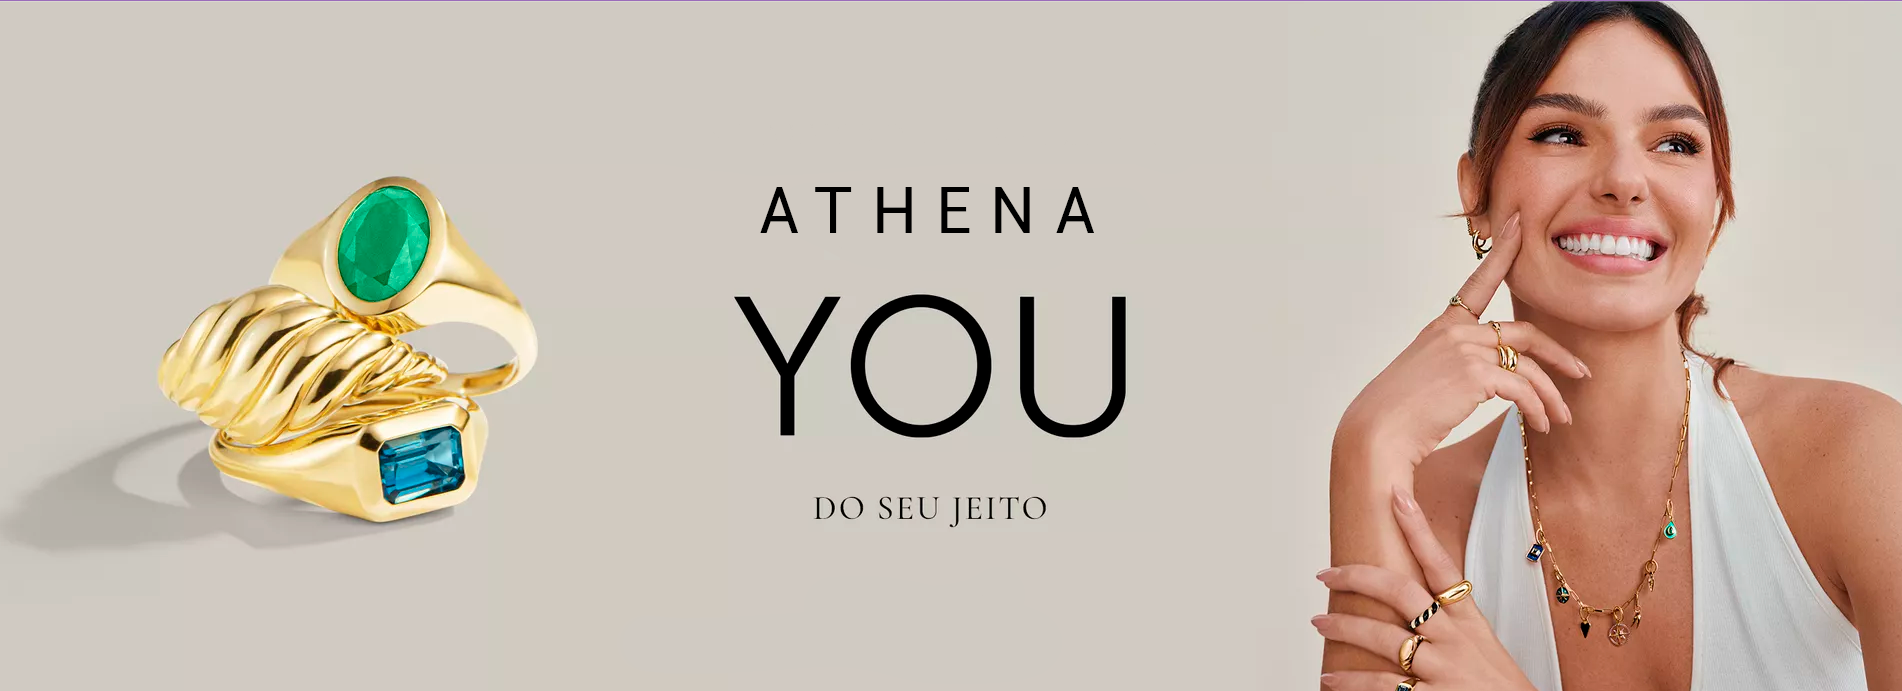
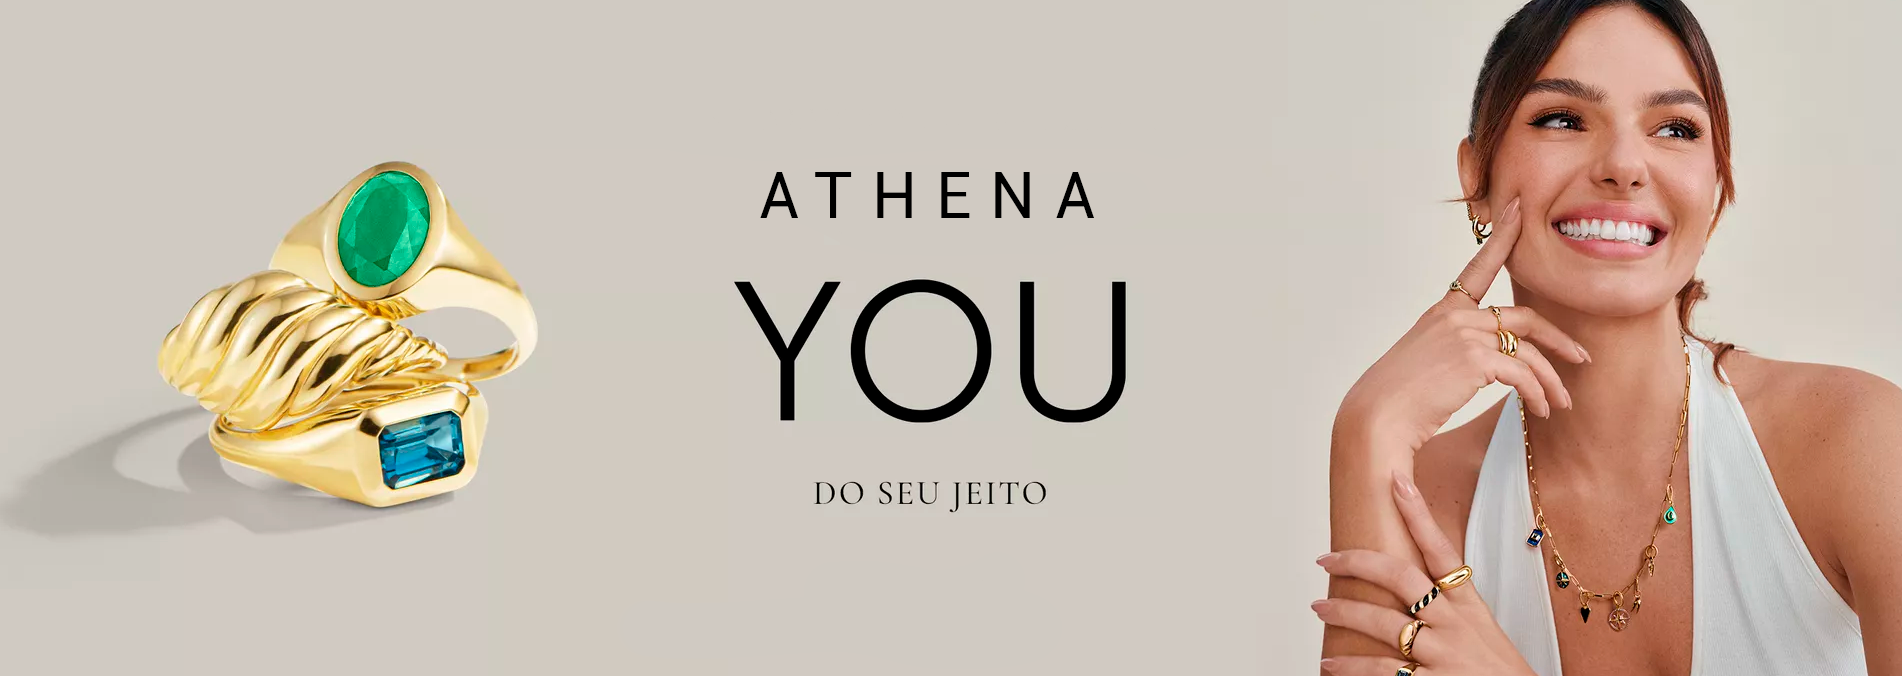
Update footer

diff --git a/src/css/style.css b/src/css/style.css
@@ -5,8 +5,18 @@
   box-sizing: border-box;
 }
 
+a {
+  color: #000;
+  font-family: Roboto;
+  font-size: 18px;
+  font-weight: 700;
+  text-decoration: none;
+  transition: 0.3s;
+}
+
 ul {
   list-style-type: none;
+  gap: 1rem;
 }
 
 h1 {
@@ -43,15 +53,6 @@ header .menu ul {
   width: 100%;
 }
 
-header .menu a {
-  color: #000;
-  font-family: Roboto;
-  font-size: 18px;
-  font-weight: 700;
-  text-decoration: none;
-  transition: 0.3s;
-}
-
 header .menu a:hover {
   color: #f08769;
 }
@@ -60,7 +61,7 @@ header .menu-mobile {
   display: none;
 }
 
-@media screen and (max-width: 960px) {
+@media screen and (max-width: 1024px) {
   header .menu {
     display: none;
   }
@@ -112,6 +113,27 @@ header i:hover {
 .default-button:hover {
   color: #f08769;
   border: 4px solid #f08769;
+}
+
+.square-button {
+  border: none;
+  font-weight: 700;
+  padding: 0.8rem 3rem;
+  font-size: 1rem;
+  cursor: pointer;
+  transition: 0.5s;
+  color: #fff;
+  background-color: #000;
+}
+
+.square-button:hover {
+  color: #f08769;
+}
+
+@media(max-width:  1024px){
+  .default-button {
+    padding: 0.5rem 2rem;
+  }
 }
 
 /* Swiper Carousel*/
@@ -359,7 +381,80 @@ header i:hover {
 
 /* Footer */
 .container-footer {
+  font-family: Roboto;
   display: flex;
   justify-content: space-around;
-  padding: 20px;
+  font-weight: 300;
+  font-size: 0.9rem;
+  flex-wrap: wrap;
+  padding: 2rem;
+  text-align: center;
+}
+
+.footer-column {
+  display: flex;
+  justify-content: space-between;
+  flex-direction: column;
+  width: calc(25% - 10rem);
+  gap: 1rem;
+}
+
+.form-container {
+  display: flex;
+  gap: 1rem;
+  flex-direction: column;
+  text-align: left;
+  font-weight: 500;
+}
+
+.form-field {
+  width: 100%;
+  border: 0;
+  border-bottom: 2px solid rgba(222, 215, 215, 0.41);;
+  outline: 0;
+  background: transparent;
+  transition: border-color 0.2s;
+
+  &::placeholder {
+    color:#C4C4C4;
+  }
+}
+
+.form-field:focus {
+  border-width: 3px;
+  border-image: linear-gradient(to right, #f08769, #C4C4C4);
+  border-image-slice: 1;
+}
+
+.social-media {
+  display: flex;
+  width: 50%;
+  align-self: center;
+  flex-direction: row;
+  justify-content: space-between;
+  font-size: 1.2rem;
+}
+
+@media (max-width: 940px) {
+  .footer-column {
+    width: 100%;
+    text-align: center;
+  }
+
+  .container-footer {
+    gap: 4rem;
+  }
+}
+
+.copyright {
+  display: flex;
+  flex-direction: column;
+  text-align: center;
+  padding: 1rem 0 1rem 0;
+  gap: 0.5rem;
+  font-size: 0.7rem;
+}
+
+.copyright img {
+  max-width: 7rem;
 }

diff --git a/src/index.html b/src/index.html
@@ -71,11 +71,11 @@
           </div>
 
           <div class="swiper-slide">
-            <img class="swiper-image" src="./assets/banner.png" alt="banner" />
+            <img class="swiper-image" src="./assets/banner2.png" alt="banner" />
           </div>
 
           <div class="swiper-slide">
-            <img class="swiper-image" src="./assets/banner.png" alt="banner" />
+            <img class="swiper-image" src="./assets/banner3.png" alt="banner" />
           </div>
         </div>
       </div>
@@ -221,7 +221,7 @@
       </div>
     </section>
 
-    <!-- <footer>
+    <footer>
       <div class="container-footer">
         <div class="footer-column">
           <ul>
@@ -240,16 +240,33 @@
 
         <div class="footer-column">
           <a href="#"> Shipping & Returns FAQ </a>
-          <a href="#"> Twitter Facebook Instagram </a>
+
+          <div class="social-media">
+            <i class="fa-brands fa-instagram"></i>
+            <i class="fa-brands fa-facebook-f"></i>
+            <i class="fa-brands fa-x-twitter"></i>
+            <i class="fa-brands fa-tiktok"></i>
+          </div>
         </div>
 
-        <div class="newsletter">
-          <p>Receive all our news and updates</p>
-          <input type="text" placeholder="Email Address" />
-          <button type="button">Subscribe Now</button>
+        <div class="footer-column">
+          <div class="form-container">
+            <p>Receive all our news and updates</p>
+
+            <input type="input" class="form-field" placeholder="Email Address" name="email" id='email' required />
+
+            <button class="square-button" type="button">Subscribe Now</button>
+          </div>
         </div>
       </div>
-    </footer> -->
+
+      <div class="copyright">
+        <div>
+          <img src="./assets/logo.png" alt="logo" />
+        </div>
+        <span>Copyright © 2023, todos os direitos reservados.</span>
+      </div>
+    </footer>
 
     <script src="./app.js"></script>
   </body>
